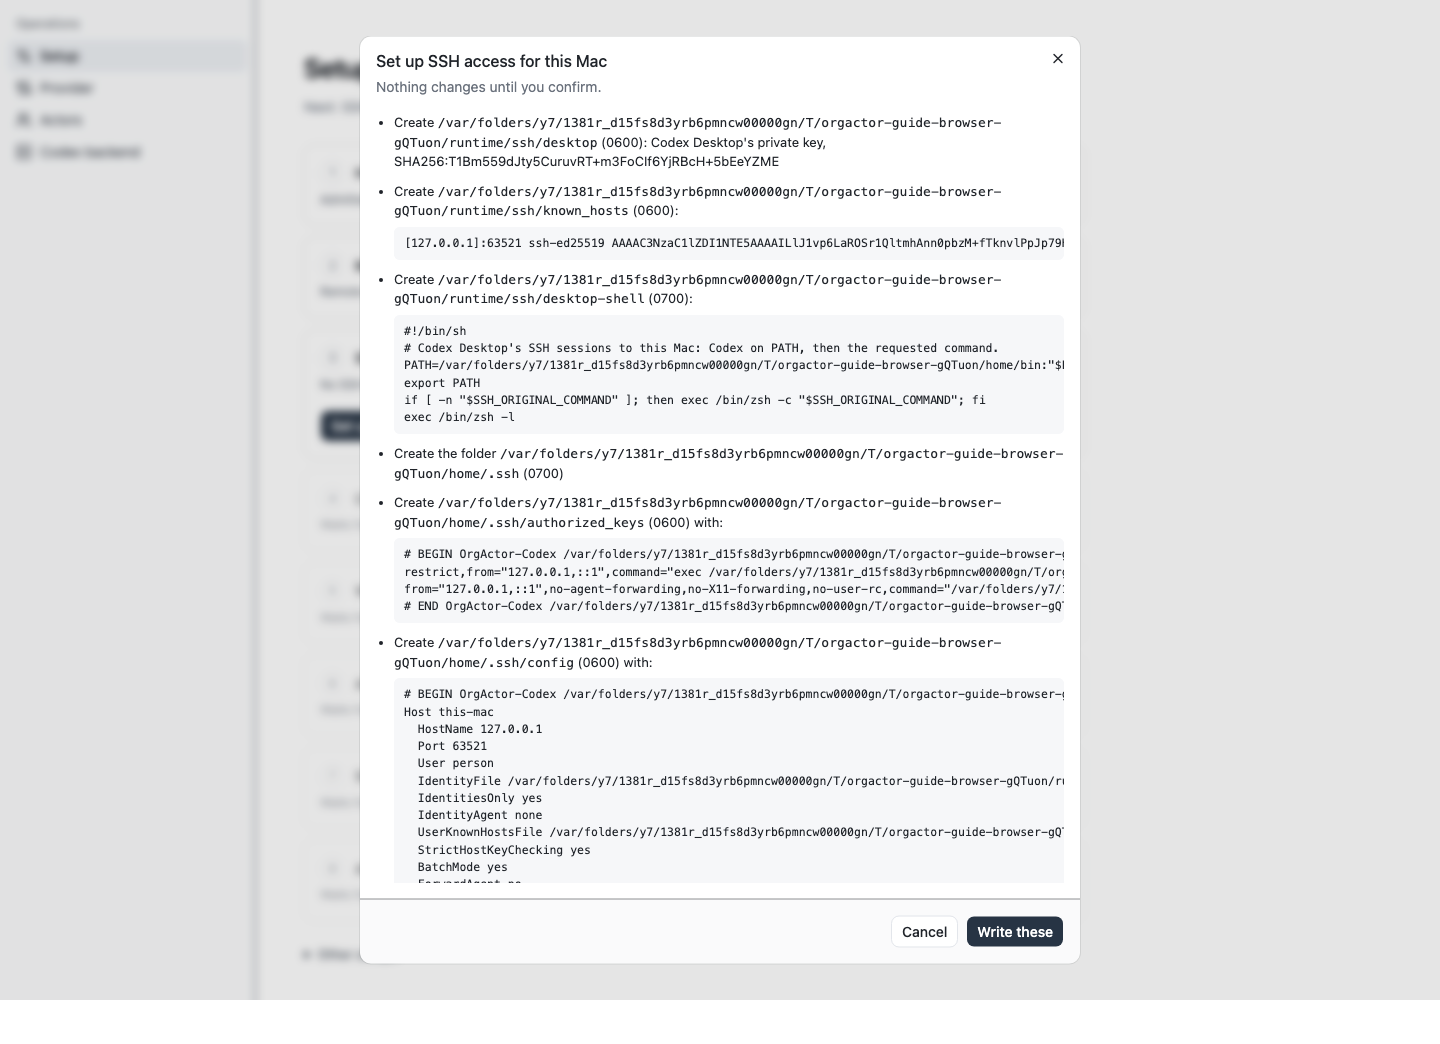
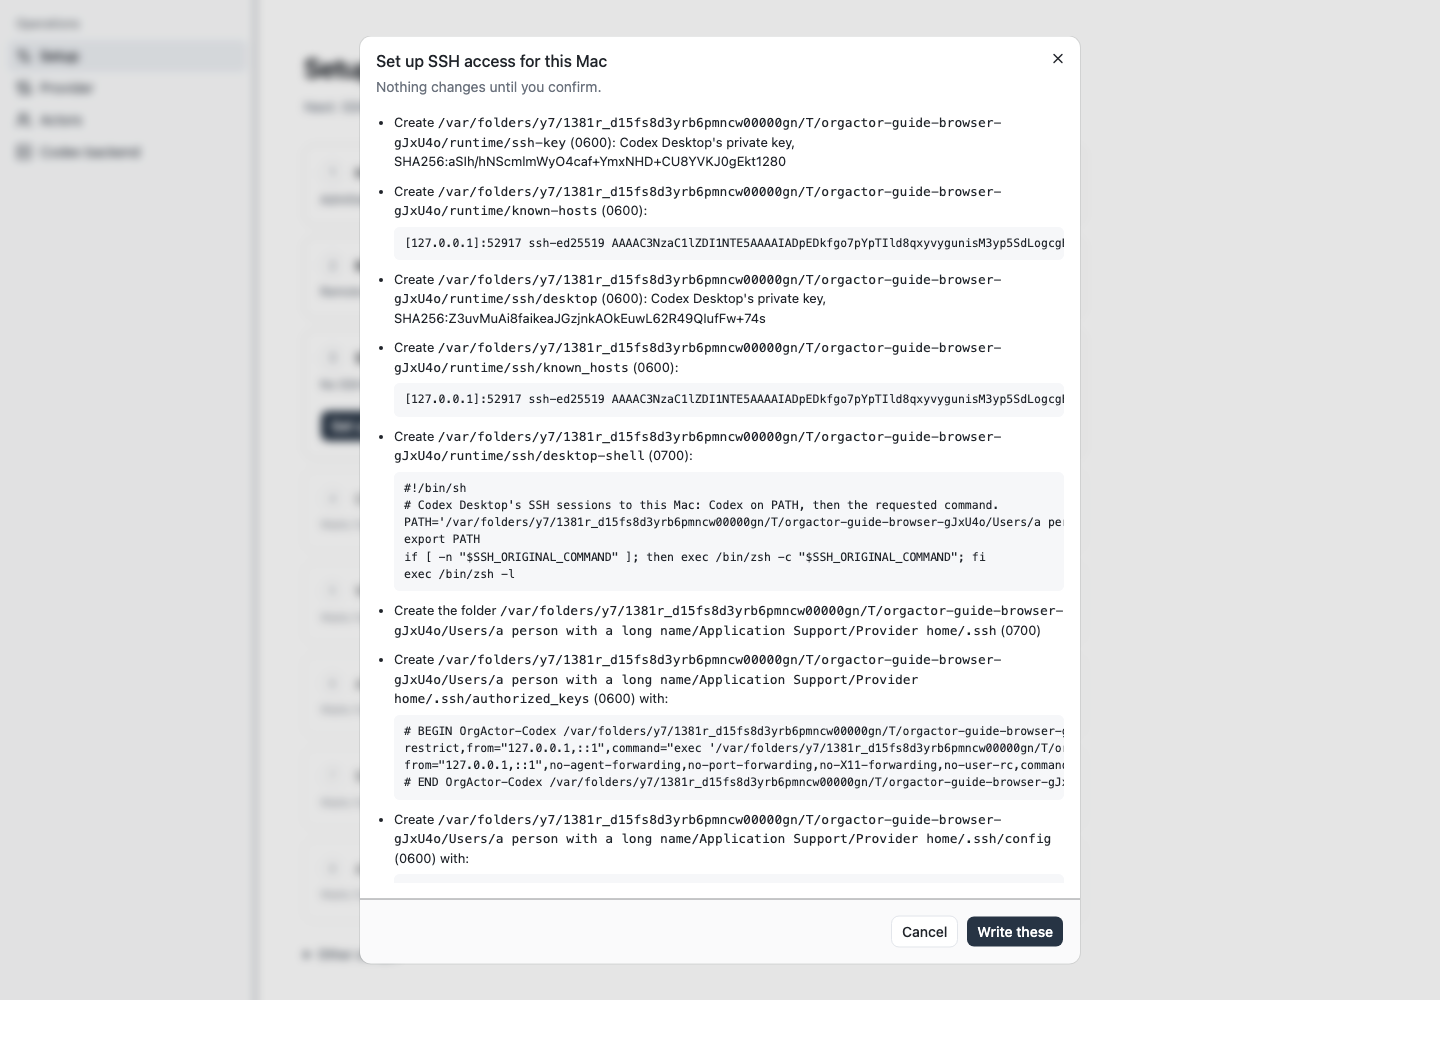
Give each Actor its own reason, and keep access removable
From the independent check of the guided setup:
- The Actors Status counts only steps that need someone, and a step
  about one Actor only for that Actor: a failed creation reads "Session
  creation failed: detach and attach again", and an Actor AgentOrg
  answers isn't held on another Actor's Desktop confirmation.
- Remove SSH access shows whenever the guide's access is present, even
  while an earlier step isn't done.
- A refused folder has Re-check, which returns to choosing with that
  folder ready to try again; the disconnect command quotes the folder.
- Long paths wrap in the folder step's buttons and commands.
- An overridden this-mac block says which options and how to fix it.
- The README says one folder per Provider, that only the console's
  Attach waits for the guide, and how the block is placed and checked.

The browser spec now uses a long home path with spaces and a folder
with an apostrophe, removes access while Remote Login is off, and
checks each Actor's reason.

diff --git a/web/e2e/guide.spec.ts b/web/e2e/guide.spec.ts
@@ -1,3 +1,4 @@
+import { execFileSync } from "node:child_process";
 import { existsSync, mkdirSync, mkdtempSync, readFileSync, rmSync, writeFileSync } from "node:fs";
 import { createServer, type Server } from "node:net";
 import { tmpdir } from "node:os";
@@ -17,7 +18,8 @@ const native = { desktop: false, open: [] as string[] };
 
 test.beforeEach(async ({ page }) => {
   dir = mkdtempSync(join(tmpdir(), "orgactor-guide-browser-"));
-  home = join(dir, "home");
+  // A long home with spaces, as under Application Support, so wrapping and quoting are tested.
+  home = join(dir, "Users", "a person with a long name", "Application Support", "Provider home");
   mkdirSync(join(home, "bin"), { recursive: true });
   writeFileSync(join(home, "host.pub"), `${ed25519("host").public} root@mac\n`);
   writeFileSync(join(home, "bin", "codex"), "#!/bin/sh\n", { mode: 0o755 });
@@ -38,7 +40,11 @@ test.beforeEach(async ({ page }) => {
       hostKey: join(home, "host.pub"),
       codex: [join(home, "bin", "codex")],
       sshPort: port,
-      ssh: async () => ({ code: 0, stdout: "codex-cli 1.2.3\n" }),
+      // Desktop's `codex --version` answers; `ssh -G` is real, since it only reads the config.
+      ssh: async (args: string[]) =>
+        args[0] === "-G"
+          ? { code: 0, stdout: execFileSync("ssh", args, { encoding: "utf8", stdio: "pipe" }) }
+          : { code: 0, stdout: "codex-cli 1.2.3\n" },
     },
   });
   // A Hub that admitted this Provider, and a Codex that answers once Desktop connects.
@@ -116,7 +122,7 @@ test("the guided setup walks a fresh Mac to Ready, writing only what the person 
   await step(page, "desktop").getByRole("button", { name: "Re-check" }).click();
   await expect(page.getByText("Next: Workspace folder")).toBeVisible();
 
-  const trial = join(home, "trial");
+  const trial = join(home, "My Projects", "the person's trial");
   mkdirSync(join(trial, ".codex"), { recursive: true });
   writeFileSync(join(trial, ".codex", "config.toml"), '[mcp_servers.org]\ncommand = "x"\n');
   const suggested = join(home, "agentorg-codex");
@@ -127,10 +133,18 @@ test("the guided setup walks a fresh Mac to Ready, writing only what the person 
   await page.getByRole("button", { name: "Use this folder" }).click();
   await expect(step(page, "folder")).toContainText("AgentOrg's Codex adapter is connected there");
   await expect(step(page, "folder")).toContainText(
-    `agentorg-mcp disconnect codex --project ${trial}`,
+    `agentorg-mcp disconnect codex --project '${trial.replace("'", "'\\''")}'`,
   );
   await expect(page.getByRole("button", { name: `Use ${suggested}` })).toBeEnabled();
   await shot(page, "guide-folder-refused");
+  await page.setViewportSize({ width: 390, height: 844 });
+  await shot(page, "mobile-guide-folder-refused");
+  await page.setViewportSize({ width: 1440, height: 1000 });
+  // Re-check leads back to choosing, with the refused folder ready to try again.
+  await step(page, "folder").getByRole("button", { name: "Re-check" }).click();
+  await expect(page.getByLabel("Folder")).toHaveValue(trial);
+  await page.getByRole("button", { name: "Use this folder" }).click();
+  await expect(step(page, "folder")).toContainText("AgentOrg's Codex adapter is connected there");
   await page.getByRole("button", { name: `Use ${suggested}` }).click();
   await expect(step(page, "folder")).toContainText("doesn't exist yet");
   await step(page, "folder").getByRole("button", { name: "Create folder" }).click();
@@ -179,13 +193,71 @@ test("Remove SSH access asks first, then removes exactly what was written", asyn
   writeFileSync(join(home, ".ssh", "config"), "Host other\n");
   await page.getByRole("button", { name: "Set up SSH access for this Mac" }).click();
   await page.getByRole("button", { name: "Write these" }).click();
+  await expect(step(page, "access")).toContainText("Done");
+  // Remote Login turns off: the access waits on it, and can still be removed.
+  sshd?.close();
+  sshd = undefined;
+  await step(page, "login").getByRole("button", { name: "Re-check" }).click();
+  await expect(step(page, "access")).toContainText("Waiting");
   await step(page, "access").getByRole("button", { name: "Remove SSH access" }).click();
   await expect(page.getByRole("dialog")).toContainText("keeping everything else");
   await page.getByRole("dialog").getByRole("button", { name: "Cancel" }).click();
   expect(readFileSync(join(home, ".ssh", "config"), "utf8")).toContain("Host this-mac");
   await step(page, "access").getByRole("button", { name: "Remove SSH access" }).click();
   await page.getByRole("dialog").getByRole("button", { name: "Remove access" }).click();
-  await expect(page.getByRole("button", { name: "Set up SSH access for this Mac" })).toBeVisible();
+  await expect(step(page, "access").getByRole("button", { name: "Remove SSH access" })).toHaveCount(
+    0,
+  );
   expect(readFileSync(join(home, ".ssh", "config"), "utf8")).toBe("Host other\n");
   expect(existsSync(join(home, ".ssh", "authorized_keys"))).toBe(false);
+});
+
+test("the Actors Status gives each Actor its own reason", async ({ page }) => {
+  sshd = createServer((socket) => socket.end());
+  await new Promise<void>((done) => sshd?.listen(port, "127.0.0.1", done));
+  native.desktop = true;
+  const api = (method: string, path: string, body?: unknown) =>
+    fetch(`${module.url}/api${path}`, {
+      method,
+      ...(body
+        ? { headers: { "content-type": "application/json" }, body: JSON.stringify(body) }
+        : {}),
+    }).then((r) => r.json());
+  const plan = await api("POST", "/setup/guide/access/plan");
+  await api("PUT", "/setup/guide/access", { planId: plan.id });
+  const folder = join(home, "agentorg-codex");
+  await api("PUT", "/setup/guide/folder", { path: folder });
+  await api("POST", "/setup/guide/folder");
+  native.open.push(folder);
+  const actor = (actorId: string, threadId: string, approvalAuthority: "desktop" | "hub") => {
+    module.store.data.actors[actorId] = {
+      actorId,
+      hubUrl: "http://127.0.0.1:8740",
+      threadId,
+      bridgeToken: "private",
+      enabled: !!threadId,
+      config: { approvalAuthority },
+      submissions: [],
+    };
+    module.store.data.journal[`http://127.0.0.1:8740|codex|${actorId}`] = threadId
+      ? { fingerprint: actorId, state: "ready", threadId }
+      : { fingerprint: actorId, state: "failed" };
+  };
+  actor("failed", "", "desktop");
+  actor("answered-by-hub", "hub-thread", "hub");
+  actor("answered-in-desktop", "desktop-thread", "desktop");
+  await page.getByRole("button", { name: "Actors", exact: true }).click();
+  const row = (id: string) => page.getByRole("row").filter({ hasText: id });
+  await expect(row("failed")).toContainText("Session creation failed: detach and attach again", {
+    timeout: 10_000,
+  });
+  await expect(row("answered-by-hub")).toContainText("Connecting");
+  await expect(row("answered-in-desktop")).toContainText(
+    "Waiting for Desktop: confirm the session",
+  );
+  await shot(page, "guide-actors-own-reasons");
+  await row("failed")
+    .getByRole("button", { name: /Session creation failed/ })
+    .click();
+  await expect(step(page, "actor").getByRole("button", { name: "Detach failed" })).toBeVisible();
 });

diff --git a/web/src/views/guide.tsx b/web/src/views/guide.tsx
@@ -74,6 +74,8 @@ function fact(step: GuideStep): string {
       return "No SSH access is set up for this Provider yet.";
     case "ACCESS_INCOMPLETE":
       return "Part of this Provider's SSH access is missing.";
+    case "ACCESS_OVERRIDDEN":
+      return `An earlier line in ${d.path} sets this-mac's ${(d.options as string[]).join(", ")} first.`;
     case "PROVIDER_KEY_REFUSED":
       return "SSH refused this Provider's key.";
     case "DESKTOP_KEY_REFUSED":
@@ -123,30 +125,43 @@ function fact(step: GuideStep): string {
   }
 }
 
-/** The one reason an Actor isn't working, and the Setup step that fixes it. */
+const SHORT: Partial<Record<StepId, string>> = {
+  hub: "Hub not connected",
+  login: "Remote Login off",
+  access: "SSH access not ready",
+  desktop: "Desktop not connected",
+  folder: "Folder not ready in Desktop",
+};
+const REASONS: Record<string, string> = {
+  ACTOR_PROVISIONING_FAILED: "Session creation failed: detach and attach again",
+  ACTOR_CREATING: "Creating its session",
+  SESSION_UNCONFIRMED: "Waiting for Desktop: confirm the session",
+  ACTOR_TOOLS_MISSING: "Tools not ready",
+};
+
+/**
+ * The one reason an Actor isn't working, and the Setup step that fixes it. Only a step that needs
+ * someone counts, and a step about one Actor counts only for that Actor.
+ */
 export function actorStatus(
   actor: ActorSnapshot,
   guide: Guide | null,
 ): { text: string; step?: StepId; ready?: boolean } {
   if (actor.connectionState === "suspended") return { text: "Suspended: resume its connection" };
-  if (!actor.enabled) return { text: "Paused" };
-  const blocker = guide?.steps.find((s) => s.state !== "done" && s.id !== "actor");
-  if (actor.connectionState === "awaiting-desktop" || blocker?.id === "session")
-    return { text: "Waiting for Desktop: confirm the session", step: "session" };
+  const blocker = guide?.steps.find(
+    (s) =>
+      (s.state === "missing" || s.state === "broken") &&
+      (s.details?.actorId ?? actor.actorId) === actor.actorId &&
+      s.code !== "ACTOR_PAUSED",
+  );
   if (blocker)
     return {
-      text: {
-        hub: "Hub not connected",
-        login: "Remote Login off",
-        access: "SSH access not set up",
-        desktop: "Desktop not connected",
-        folder: "Folder not open in Desktop",
-        actor: "Not attached",
-        session: "Waiting for Desktop: confirm the session",
-        tools: "Tools not ready",
-      }[blocker.id],
+      text: REASONS[blocker.code] ?? SHORT[blocker.id] ?? TITLES[blocker.id],
       step: blocker.id,
     };
+  if (actor.connectionState === "awaiting-desktop")
+    return { text: REASONS.SESSION_UNCONFIRMED, step: "session" };
+  if (!actor.enabled) return { text: "Paused" };
   if (actor.requests.length)
     return {
       text: `Request pending: answer in ${actor.approvalAuthority === "desktop" ? "Codex Desktop" : "AgentOrg"}`,
@@ -184,7 +199,9 @@ export function GuideSteps(p: GuideFeature) {
               </div>
               <CardDescription>{fact(step)}</CardDescription>
             </CardHeader>
-            {step.state === "missing" || step.state === "broken" || step.code === "ACCESS_READY" ? (
+            {step.state === "missing" ||
+            step.state === "broken" ||
+            (step.id === "access" && p.guide.accessPresent) ? (
               <StepBody step={step} {...p} />
             ) : null}
           </Card>
@@ -213,7 +230,8 @@ function StepBody(p: GuideFeature & { step: GuideStep }) {
       Remove SSH access
     </Button>
   );
-  let body: ReactNode = <Actions>{recheck}</Actions>;
+  let body: ReactNode =
+    p.step.state === "waiting" || p.step.state === "done" ? null : <Actions>{recheck}</Actions>;
   switch (p.step.code) {
     case "HUB_UNCONFIGURED":
       body = (
@@ -273,21 +291,23 @@ function StepBody(p: GuideFeature & { step: GuideStep }) {
         </Actions>
       );
       break;
+    case "ACCESS_OVERRIDDEN":
+      body = (
+        <>
+          <p className="muted text-sm">Move or remove that line for this-mac, then re-check.</p>
+          <Actions>{recheck}</Actions>
+        </>
+      );
+      break;
     case "ACCESS_INCOMPLETE":
     case "PROVIDER_KEY_REFUSED":
     case "DESKTOP_KEY_REFUSED":
       body = (
         <>
           <p className="muted text-sm">Remove this Provider's SSH access, then set it up again.</p>
-          <Actions>
-            {remove}
-            {recheck}
-          </Actions>
+          <Actions>{recheck}</Actions>
         </>
       );
-      break;
-    case "ACCESS_READY":
-      body = <Actions>{remove}</Actions>;
       break;
     case "DESKTOP_NOT_CONNECTED":
       body = (
@@ -304,7 +324,7 @@ function StepBody(p: GuideFeature & { step: GuideStep }) {
       body = <ChooseFolder {...p} />;
       break;
     case "FOLDER_HAS_ADAPTER":
-      body = <Refused path={d.path} {...p} />;
+      body = <Refused path={d.path} disconnect={d.disconnect} {...p} />;
       break;
     case "FOLDER_MISSING":
       body = (
@@ -391,6 +411,14 @@ function StepBody(p: GuideFeature & { step: GuideStep }) {
       );
       break;
   }
+  // The guide's access can be removed whatever step the guide is on.
+  if (p.step.id === "access" && p.guide.accessPresent)
+    body = (
+      <>
+        {body}
+        <Actions>{remove}</Actions>
+      </>
+    );
   return <CardContent className="stack">{body}</CardContent>;
 }
 
@@ -418,8 +446,10 @@ function ChooseFolder(p: GuideFeature) {
   );
 }
 
+const shellQuote = (path: string) => `'${path.replaceAll("'", `'\\''`)}'`;
+
 /** A folder connected to AgentOrg's Codex adapter, with its two fixes. */
-function Refused(p: GuideFeature & { path: string }) {
+function Refused(p: GuideFeature & { path: string; disconnect?: string }) {
   return (
     <>
       <div role="status" className="notice">
@@ -427,12 +457,23 @@ function Refused(p: GuideFeature & { path: string }) {
         refuse the Actor's session. Use a folder of its own, or disconnect the adapter.
       </div>
       <Actions>
-        <Button disabled={p.busy} onClick={() => p.onChooseFolder(p.guide.folder.suggested)}>
+        <Button
+          className="wrap-button"
+          disabled={p.busy}
+          onClick={() => p.onChooseFolder(p.guide.folder.suggested)}
+        >
           Use {p.guide.folder.suggested}
+        </Button>
+        <Button variant="outline" size="sm" disabled={p.checking} onClick={p.onRecheck}>
+          <RefreshCw />
+          Re-check
         </Button>
       </Actions>
       <p className="muted text-sm">
-        Or, keeping that folder: <code>agentorg-mcp disconnect codex --project {p.path}</code>
+        Or, keeping that folder:{" "}
+        <code>
+          {p.disconnect ?? `agentorg-mcp disconnect codex --project ${shellQuote(p.path)}`}
+        </code>
       </p>
     </>
   );

diff --git a/web/src/styles.css b/web/src/styles.css
@@ -322,7 +322,20 @@ td:first-child {
   flex: 1;
   min-width: 0;
 }
-.guide-step [data-slot="card-description"] {
+.guide-steps > li,
+.guide-step {
+  min-width: 0;
+}
+.guide-step [data-slot="card-description"],
+.guide-step code {
+  overflow-wrap: anywhere;
+}
+.wrap-button {
+  height: auto;
+  min-height: 2.25rem;
+  max-width: 100%;
+  white-space: normal;
+  text-align: left;
   overflow-wrap: anywhere;
 }
 .guide-waiting {

diff --git a/web/src/control/console.tsx b/web/src/control/console.tsx
@@ -93,6 +93,11 @@ export function ConsoleControl() {
     }
   };
   const recheck = async () => {
+    // A refused folder may have had its adapter disconnected; it can be chosen again.
+    if (refusedFolder) {
+      setFolder(refusedFolder);
+      setRefusedFolder(null);
+    }
     setChecking(true);
     try {
       setGuide(await client.guide(true));

diff --git a/README.md b/README.md
@@ -37,15 +37,15 @@ When the console runs on the Mac where Codex Desktop runs, **Setup** guides one 
 2. **Remote Login:** System Settings → General → Sharing → Remote Login on, with access for only your user and full disk access off.
 3. **SSH access:** **Set up SSH access for this Mac** shows every write first, and nothing is written until you confirm. It covers:
    - keys in the Provider's runtime folder;
-   - two `authorized_keys` lines, from this Mac only, one forced to `codex app-server proxy`;
-   - a `Host this-mac` block, after a backup of `~/.ssh/config`;
+   - two `authorized_keys` lines, from this Mac only and without forwarding, one forced to `codex app-server proxy`;
+   - a `Host this-mac` block before the first `Host` or `Match` in `~/.ssh/config`, after a backup of it;
    - `known_hosts` from the Mac's own host key;
    - the Desktop wrapper.
 
-   **Remove SSH access** removes exactly what was written.
+   The step checks that ssh resolves `this-mac` to the block's own values. **Remove SSH access** removes exactly what was written, whatever step Setup is on.
 4. **Codex Desktop connected:** in Codex Desktop, Settings → Connections → SSH → `this-mac` → Connect.
-5. **Workspace folder:** a folder of the Actor's own, created when you confirm. Then add it in Desktop under `this-mac`. A folder connected to AgentOrg's Codex adapter (`agentorg-mcp connect codex`) is refused: Codex would refuse the Actor's session there. The step offers another folder or the exact `disconnect` command.
-6. **Actor:** attach it here, or create it from the Hub. Attaching waits until steps 1 to 5 are done.
+5. **Workspace folder:** one folder for this Provider, used for nothing else, created when you confirm. Then add it in Desktop under `this-mac`. A folder connected to AgentOrg's Codex adapter (`agentorg-mcp connect codex`) is refused: Codex would refuse the Actor's session there. The step offers another folder or the exact `disconnect` command.
+6. **Actor:** attach it here, or create it from the Hub. The console's Attach waits until steps 1 to 5 are done; an Actor created from the Hub isn't held back, so create it once they are.
 7. **Session in Desktop:** open the named session in Desktop under `this-mac` → the folder, then **I see it**.
 8. **Actor tools:** the session lists its Hub tools.
 

diff --git a/docs/verification.md b/docs/verification.md
@@ -34,7 +34,9 @@ The guided setup on a Mac, from `web/e2e/guide.spec.ts`. Its Mac, Hub and Codex 
 ![Guided setup on a fresh Mac — browser fixture](../evidence/console/guide-fresh.png)
 ![The review before SSH access is written — browser fixture](../evidence/console/guide-consent.png)
 ![A folder connected to AgentOrg's adapter, refused — browser fixture](../evidence/console/guide-folder-refused.png)
+![The refused folder on a phone, with a long path — browser fixture](../evidence/console/mobile-guide-folder-refused.png)
 ![An Actor's one blocking reason — browser fixture](../evidence/console/guide-actors-status.png)
+![Each Actor's own reason — browser fixture](../evidence/console/guide-actors-own-reasons.png)
 ![Ready — browser fixture](../evidence/console/guide-ready.png)
 ![Mobile guided setup — browser fixture](../evidence/console/mobile-guide.png)
 
